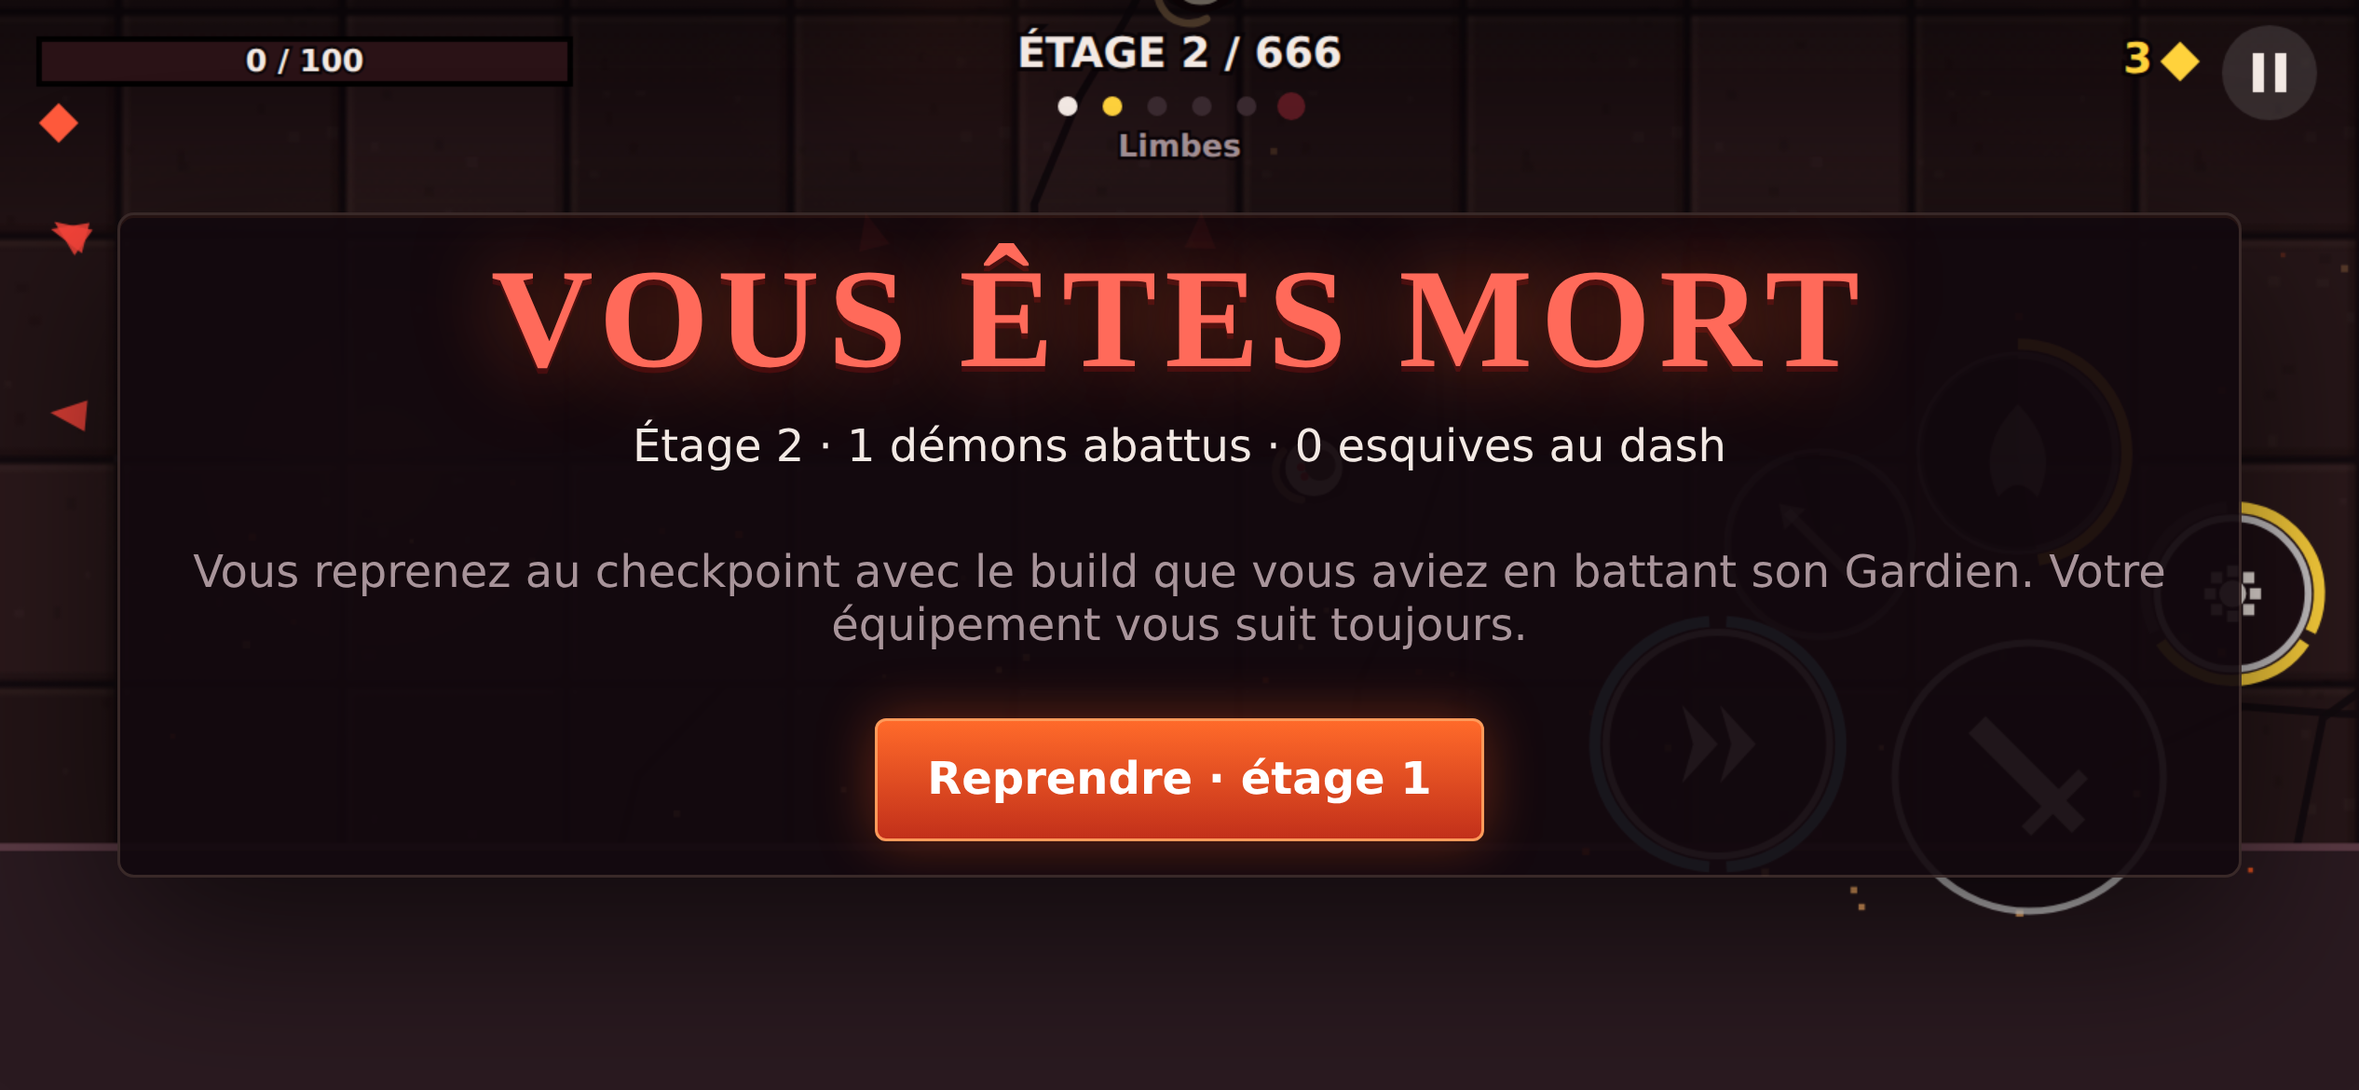
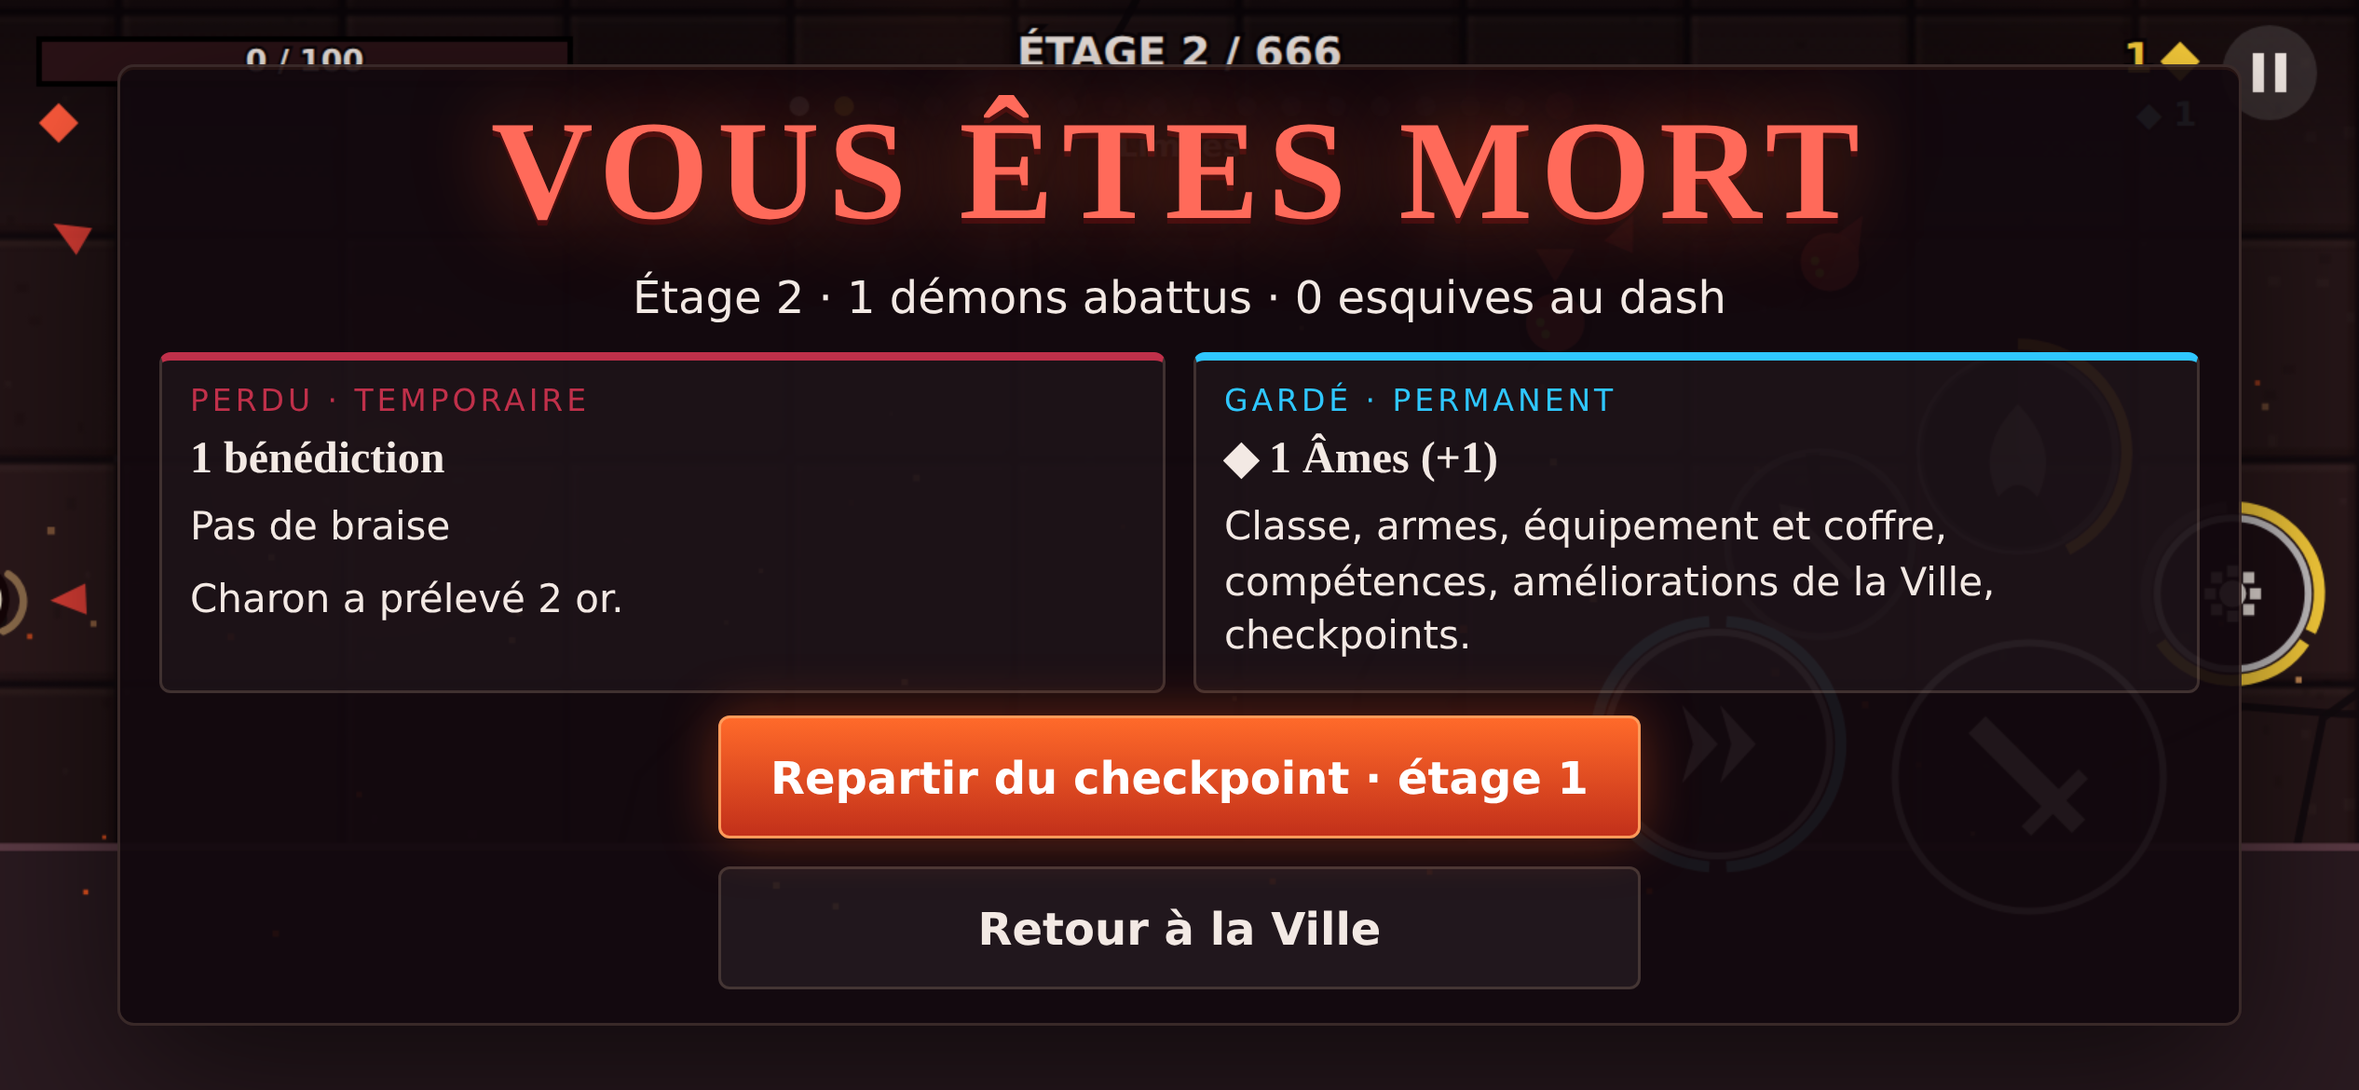
Dungeon 666 V2 : fusion du lot boucle/labo/oracles, docs de clôture (README, décisions)
- Lot boucle : 31 tests de boucle (profil, mort, checkpoints, TP, Ville, labo D5/D8/D9,
  entraînement), e2e sur le nouveau flux (39 vérifications), rapport reports/lab.md,
  returnToTown réservé à la mort ou au portail, migration des checkpoints
- README : boucle V2, permanent/temporaire, contenu, reprise sous Godot
- DECISIONS : D3/D4 tranchées par Pierre, D5/D8/D9 testables au labo, D10-D12
- Suite : 239/239 ; solvabilité PASS ; e2e 39/39

Claude-Session: https://claude.ai/code/session_01AJGYqWYQ6ueyxxmqgtgQMu

diff --git a/GAMES/dungeon_666/dist/dungeon_666.html b/GAMES/dungeon_666/dist/dungeon_666.html
@@ -6501,6 +6501,7 @@ __mod["src/sim/profile.mjs"] = (() => {
 //
 // Fonctions PURES sur des objets JSON (aucun DOM) : la Ville (src/ui/town.mjs) appelle ces
 // opérations, main.mjs sauvegarde le résultat. Chaque opération rend { ok, reason? }.
+const { floorInfo } = __mod["src/sim/floors.mjs"];
 
 const PROFILE_SCHEMA = 3;
 const STASH_MAX = 24;
@@ -6578,7 +6579,9 @@ function sanitizeProfile(raw, tuning) {
   if (!isObj(raw)) return def;
   const total = tuning.floors.total;
   const out = def;
-  const cps = Array.isArray(raw.checkpoints) ? raw.checkpoints.filter((f) => intIn(f, 1, total)) : [];
+  // Un checkpoint est le 1er étage d'une section (l'étage qui suit un Gardien). Ceux d'avant la
+  // V2 (Gardien tous les 6 étages : 7, 13…) ne sont plus des points de reprise et sont écartés.
+  const cps = Array.isArray(raw.checkpoints) ? raw.checkpoints.filter((f) => intIn(f, 1, total) && floorInfo(tuning, f).indexInSection === 1) : [];
   out.checkpoints = [...new Set([1, ...cps])].sort((a, b) => a - b);
   out.bestFloor = intIn(raw.bestFloor, 1, total) ? raw.bestFloor : 1;
   out.souls = Number.isFinite(raw.souls) && raw.souls >= 0 ? Math.floor(raw.souls) : 0;
@@ -6592,6 +6595,7 @@ function sanitizeProfile(raw, tuning) {
   };
   for (const k of Object.keys(known)) out.unlocked[k] = [...new Set([...def.unlocked[k], ...idList(u[k], known[k])])];
   for (const c of out.unlocked.classes) grantClassStarters(out, tuning, c);
+  for (const id of out.unlocked.classes) grantStarterKit(out, tuning, id);
   if (isObj(raw.upgrades)) {
     for (const [id, lv] of Object.entries(raw.upgrades)) {
       const up = tuning.town?.upgrades?.[id];
@@ -6677,11 +6681,25 @@ function unlock(profile, tuning, kind, id) {
   profile.souls -= cost;
   profile.unlocked[kind].push(id);
   if (kind === 'classes') grantClassStarters(profile, tuning, id);
+  if (kind === 'classes') grantStarterKit(profile, tuning, id);
   if (kind === 'weapons') {
     // Une arme débloquée est forgée aussitôt en exemplaire commun, rangé au coffre.
     stashPush(profile, starterWeapon(tuning, id));
   }
   return { ok: true };
+}
+
+/**
+ * Kit de départ d'une classe (1re arme, 1re compétence, 1er gadget) : possédé dès que la classe
+ * l'est. Sans cela, la classe choisie équipait une compétence encore « à débloquer » au Grimoire.
+ */
+function grantStarterKit(profile, tuning, classId) {
+  const c = tuning.classes[classId];
+  if (!c) return;
+  for (const [kind, list] of [['weapons', c.weapons], ['skills', c.skills], ['gadgets', c.gadgets]]) {
+    const id = list?.[0];
+    if (id && !profile.unlocked[kind].includes(id)) profile.unlocked[kind].push(id);
+  }
 }
 
 /** Exemplaire commun d'un type d'arme (sans affixe), pour la Forge et le départ. */
@@ -7477,7 +7495,13 @@ function rollShop(game) {
 
 function applyCommand(game, cmd) {
   if (cmd.type === 'respawn') return respawn(game, cmd.floor);
-  if (cmd.type === 'returnToTown') return returnToTown(game);
+  if (cmd.type === 'returnToTown') {
+    // Depuis l'écran de mort (Charon a déjà pris sa part), ou au portail ouvert après un Gardien.
+    // Jamais en plein combat : quitter un run en cours, c'est « abandon » (taxé comme une mort).
+    const portal = game.mode === 'play' && game.room.doors.some((d) => d.reward === 'town' && d.open);
+    if (game.mode !== 'dead' && !portal) return false;
+    return returnToTown(game);
+  }
   if (cmd.type === 'abandon') {
     // Abandonner = mourir : Charon prend sa part, le temporaire est perdu, retour en Ville.
     if (game.mode !== 'play' && game.mode !== 'choice') return false;
@@ -7751,6 +7775,7 @@ __mod["src/sim/lab.mjs"] = (() => {
 const LAB_AXES = {
   dashStrike: {
     label: 'D5 · Frappe de dash',
+    reference: 'fin', // = valeurs d'origine de config.mjs
     options: {
       fin: { label: 'Fin du dash', text: 'Attaquer dans le dernier 45 % du dash ou juste après.', set: { 'dash.strikeCancelFrom': 0.45, 'dash.strikeWindow': 0.3 } },
       toutDash: { label: 'Tout le dash', text: 'Attaquer à n\'importe quel moment du dash le coupe en frappe.', set: { 'dash.strikeCancelFrom': 1, 'dash.strikeWindow': 0.3 } },
@@ -7759,6 +7784,7 @@ const LAB_AXES = {
   },
   hitstop: {
     label: 'D8 · Gel d\'impact',
+    reference: 'global',
     options: {
       global: { label: 'Global', text: 'Toute la scène se fige à l\'impact.', set: { hitstopMode: 'global' } },
       local: { label: 'Local', text: 'Seuls le héros et ses cibles se figent ; le reste continue.', set: { hitstopMode: 'local' } },
@@ -7766,6 +7792,7 @@ const LAB_AXES = {
   },
   comboMobility: {
     label: 'D9 · Mobilité du combo',
+    reference: 'mobile',
     options: {
       ancre: { label: 'Ancré', text: '20 % de vitesse, annulations tardives.', set: { 'player.attackMoveMult': 0.2, 'player.cancelMult': 1.6 } },
       mobile: { label: 'Mobile', text: '50 % de vitesse, annulations de référence.', set: { 'player.attackMoveMult': 0.5, 'player.cancelMult': 1 } },
@@ -7782,11 +7809,15 @@ function setPath(obj, path, value) {
   o[last] = value;
 }
 
-/** Applique les variantes choisies (tuning.lab) au tuning de la partie. Idempotent. */
+/**
+ * Applique les variantes choisies (tuning.lab) au tuning de la partie. Idempotent. Un axe absent
+ * ou une variante inconnue retombe sur la RÉFÉRENCE de l'axe (jamais sur la 1re option listée :
+ * pour D9, ce serait « Ancré », pas les valeurs d'origine).
+ */
 function applyLab(tuning) {
   for (const [axis, def] of Object.entries(LAB_AXES)) {
     const choice = tuning.lab?.[axis];
-    const opt = def.options[choice] ?? def.options[Object.keys(def.options)[0]];
+    const opt = def.options[choice] ?? def.options[def.reference];
     for (const [path, v] of Object.entries(opt.set)) setPath(tuning, path, v);
   }
   return tuning;
@@ -7795,13 +7826,17 @@ function applyLab(tuning) {
 /** Change une variante en cours de partie (pause → Labo) ; rend false si inconnue. */
 function setLab(tuning, axis, choice) {
   if (!LAB_AXES[axis]?.options[choice]) return false;
+  if (!tuning.lab || typeof tuning.lab !== 'object') tuning.lab = {};
   tuning.lab[axis] = choice;
   applyLab(tuning);
   return true;
 }
 
 function labSummary(tuning) {
-  return Object.entries(LAB_AXES).map(([axis, def]) => ({ axis, label: def.label, choice: tuning.lab[axis], choiceLabel: def.options[tuning.lab[axis]]?.label ?? '?' }));
+  return Object.entries(LAB_AXES).map(([axis, def]) => {
+    const choice = def.options[tuning.lab?.[axis]] ? tuning.lab[axis] : def.reference;
+    return { axis, label: def.label, choice, choiceLabel: def.options[choice].label };
+  });
 }
 
 return { LAB_AXES, applyLab, setLab, labSummary };
@@ -14820,6 +14855,14 @@ window.__d666 = {
     if (!g) return;
     g.player.x = x;
     g.player.y = y;
+  },
+  // Âmes offertes (e2e : tester un achat de la Ville sans jouer vingt minutes). Profil sauvegardé.
+  giveSouls(n) {
+    const amount = Math.max(0, Math.floor(Number(n) || 0));
+    app.profile.souls += amount;
+    if (app.game) app.game.meta.souls += amount;
+    save(META_KEY, app.profile);
+    app.townRev++;
   },
 };
 window.__game_debug = {

diff --git a/GAMES/dungeon_666/01_DESIGN/DECISIONS.md b/GAMES/dungeon_666/01_DESIGN/DECISIONS.md
@@ -1,4 +1,4 @@
-# Dungeon 666 — décisions ouvertes pour Pierre
+# Dungeon 666 — décisions pour Pierre (état V2, 2026-10-01)
 
 `statut_artefact : PROPOSED` · chaque ligne indique ce que fait le prototype aujourd'hui. Les
 défauts sont **réversibles** : ce sont des valeurs de `src/sim/config.mjs`, ou de petites règles isolées.
@@ -7,13 +7,16 @@ défauts sont **réversibles** : ce sont des valeurs de `src/sim/config.mjs`, ou
 |---|---|---|---|---|
 | D1 | **Profil de feel** | « Nerveux » : course 300 u/s, accélération en 5 images, arrêt en 3. Dash de 170 u en 0,15 s, invulnérable 0,2 s, 2 charges rechargées en 0,9 s. | « Posé » : course 260, dash plus long (0,25 s), recharge 1,5 s, télégraphes ennemis ×1,25. | Pause → **Réglages du feel** : tout se règle en jouant. |
 | D2 | **Visée** | Visée assistée par défaut (cible proche, avec ligne de vue, dans le sens du déplacement, cible « collante » 0,4 s). Glisser = visée manuelle. | Visée manuelle obligatoire (plus d'adresse, plus de friction au pouce). | Jouer deux salles en tapant, puis deux en glissant. |
-| D3 | **Mort** | On reprend au checkpoint choisi avec le **build figé quand on a battu son Gardien** (bénédictions + or, l'or plafonné à celui qu'on avait en mourant). L'équipement n'est jamais perdu. On ne perd que la section en cours. Mort au Gardien : « Réessayer le Gardien » relance le combat avec le build d'entrée dans sa salle. | (a) Perdre toutes les bénédictions à chaque mort (plus Hades, plus punitif). (b) Tout garder, ne perdre que la position. | Mourir deux fois au Gardien et juger l'envie de relancer. |
-| D4 | **Structure des 666** | Sections de 6 (Gardien au 6ᵉ = checkpoint), 9 Cercles de 72, finale de 18. Un seul modèle de Gardien dans le prototype. | Un « Seigneur » plus coriace tous les 18 étages et à la fin de chaque Cercle (22 scripts de boss en tout, recommandation des concepteurs). | Après validation du feel. |
-| D5 | **Frappe de dash** | Une attaque en fin de dash (dernier 45 %) coupe la ruée et frappe tout de suite (×1,8 dégâts, élan). | Frappe seulement après la fin complète du dash. | Ressenti : « je frappe quand je veux » ou « ça me coupe mon esquive ». |
+| D3 | **Mort** | **TRANCHÉE par Pierre (V2)** : retour au dernier checkpoint ; bénédictions remises à zéro ; tout le permanent (classe, armes, équipement, compétences, déblocages, Âmes) gardé. Reste ouvert : la part d'or prélevée par Charon (50 %, Sanctuaire « Avidité » −15 %/niv.). | — | Jouer une mort après un Gardien. |
+| D4 | **Structure des 666** | **TRANCHÉE par Pierre (V2)** : Gardien tous les 18 étages (37 sections), étages composés. Reste ouvert : nombre de modèles de Gardien (4 en rotation aujourd'hui), longueur réelle d'une section pour un humain (~11 min estimées par bot). | Gardiens spéciaux de fin de Cercle. | Après plusieurs sections jouées. |
+| D5 | **Frappe de dash** | **TESTABLE** : Labo du feel → fin du dash (réf.) / tout le dash / après le dash. Mesure bots : `reports/lab.md`. | — | En main, Labo du feel. |
 | D6 | **Moteur cible** | Prototype web (canvas 2D) : testable sur n'importe quel téléphone en un lien, simulation isolée et portable. | Port Godot 4 (export Android/iOS natif) une fois le feel validé. | Après le verdict de feel. |
 | D7 | **Place dans le studio** | Hors du rail (`RAIL_REGISTER.md`) et hors de la Forge (`forge/oracles.json` est une surface protégée) : oracles locaux (`node run-oracle.mjs`). | L'inscrire au portefeuille, ou en faire un brief Forge (`EVIDENCE/briefs/dungeon_666/`). | Décision de portefeuille. |
-| D8 | **Gel d'impact** | Gel global (coups 0,04 s, 3ᵉ coup 0,085 s), plafonné par une réserve de 0,22 s qui se recharge. Le dash l'interrompt. | Gel local (attaquant + cible seulement), recommandé par le spécialiste juice : plus fluide en mêlée, plus complexe. | Mêlée de 6 ennemis : est-ce que ça « colle » ? |
-| D9 | **Mobilité pendant le combo** | On garde 50 % de la vitesse en attaquant (`player.attackMoveMult`). Le coup suivant part après 30 % de la récupération (60 % après le 3ᵉ coup, `comboCancelFrom`) ; le dash, lui, annule tout. | Plus lent (40 %) : le dash pèse encore plus, le combo colle davantage au sol. À 20 % (valeur initiale), le héros était plus lent qu'un diablotin. | Arène d'essai, combo maintenu : le dash reste-t-il le réflexe ? |
+| D8 | **Gel d'impact** | **TESTABLE** : Labo du feel → global (réf.) / local (seuls le héros et ses cibles se figent). Mesure bots : `reports/lab.md`. | — | Mêlée de 6 ennemis, en main. |
+| D9 | **Mobilité pendant le combo** | **TESTABLE** : Labo du feel → ancré (20 %) / mobile (50 %, réf.) / fluide (75 %), avec annulations allongées ou abrégées. Mesure bots : `reports/lab.md`. | — | Arène d'essai, combo maintenu. |
+| D10 | **Économie permanente** | Âmes : 1 par ennemi, 6 par élite, 60 + 15/section par Gardien ; classes 120, armes 40-60, compétences/gadgets 35-45 ; Sanctuaire 6 améliorations. | Coûts plus bas pour tester vite ; or comme seule monnaie. | Une soirée de jeu. |
+| D11 | **Équilibrage des classes** | Bourreau (Hache/Maillet) : la relecture a relevé un étourdissement en boucle en maintenant l'attaque ; Chasseresse : le dash devient facultatif pour le bot. **Non corrigé** (correction interrompue à la clôture). | Garde/stagger des ennemis, recul de la Chasseresse. | En main, puis bots. |
+| D12 | **Portage Godot** | Pierre (2026-10-01) : reprise sous Godot. La charte demandait un feel validé avant ; la sim web reste la spécification exécutable. | — | Pierre. |
 
 ## Ce qui est mesuré, et ce qui ne l'est pas
 

diff --git a/GAMES/dungeon_666/README.md b/GAMES/dungeon_666/README.md
@@ -45,16 +45,51 @@ Aucune dépendance : Node 18+ suffit pour le serveur et les tests. Playwright ne
 
 En jeu : **pause → Réglages du feel**. Ce panneau règle en direct la vitesse, le dash, les dégâts, le gel d'impact, la visée auto, les télégraphes… Le bouton « Copier les réglages » produit le JSON à rapporter.
 
-## Structure des 666 étages
+## Boucle V2 (demande de Pierre du 2026-10-01 : « GO prototype complet »)
 
-Section de 6 étages, le 6ᵉ est un **Gardien**. Le vaincre ouvre un **checkpoint** et fige le build
-du moment (bénédictions + or). À la mort, on repart du dernier checkpoint avec ce build figé et
-tout son **équipement** : on ne perd que la section en cours (l'or ne remonte jamais au-dessus de
-celui qu'on avait en mourant). Mort face au Gardien : **« Réessayer le Gardien »** relance
-directement le combat, avec le build qu'on avait en entrant dans sa salle.
-9 Cercles de 72 étages (Limbes → Trahison), puis la finale de 18 étages, « Le Trône ».
-Après chaque salle, deux portes annoncent la récompense de la suivante : bénédiction (les 7
-péchés capitaux), trésor, or, élite, soin. Le 5ᵉ étage propose un marchand ou un autel.
+**Ville → équipement/classe/armes/compétences → donjon → combats → bonus temporaires → Gardien → checkpoint/TP → nouvelle section.**
+
+- **Ville de Dité** (écran titre → « Entrer dans Dité ») :
+  - **Portail** : descendre depuis le dernier checkpoint ou se téléporter ; arène d'essai ; entraînement contre un Gardien déjà rencontré (`?lab=1` les montre tous).
+  - **Classe**, **Armurerie**, **Coffre**, **Grimoire** et **Sanctuaire** : améliorations payées en Âmes.
+  - **Labo du feel**.
+- **Permanent** (profil, `src/sim/profile.mjs`) :
+  - classe ;
+  - armes (objets typés) ;
+  - équipement et coffre (tout objet trouvé y est gardé) ;
+  - compétences et gadgets ;
+  - améliorations du Sanctuaire ;
+  - Âmes ;
+  - checkpoints.
+- **Temporaire** (`game.run`) : bénédictions des 7 péchés (bonus, pouvoirs, améliorations, synergies).
+- **Mort** : retour au **dernier checkpoint** (ou en Ville). Les bénédictions sont **remises à zéro**, tout le permanent est gardé, et Charon prélève une part de l'or. L'écran de mort montre ce qui est perdu et ce qui est gardé.
+- **666 étages** : sections de **18** étages, avec un **Gardien** au 18ᵉ, soit 37 sections. Le Gardien ouvre un checkpoint et un point de téléportation. À la sortie, deux portes : « section suivante » (le build est conservé) ou portail vers la Ville. Les étages sont **composés** à partir d'un plan de section (`src/sim/sections.mjs`), de dispositions, du bestiaire et des thèmes des 9 Cercles + finale.
+- **Classes** :
+  - **Revenant** : Lame, Dagues ;
+  - **Bourreau** : Hache, Maillet ;
+  - **Chasseresse** : Arc, Arbalète.
+
+  Il y a 5 compétences, 5 gadgets, et un Super par classe (`src/sim/kits.mjs`).
+- **Bestiaire** :
+  - diablotin (mêlée rapide) ;
+  - brute (mêlée lourde) ;
+  - archer (distance) ;
+  - bélier (chargeur) ;
+  - **Pyromancienne** (zone : flaques persistantes) ;
+  - **Nécromancien** (invocateur) ;
+  - possédé (kamikaze) ;
+  - 6 modificateurs d'élite.
+- **Gardiens** : **Charon**, **Cerbère**, **Minos**, **Éphialte le Colosse**. Leurs patterns sont distincts, en rotation sur les 37 sections.
+- **D5 / D8 / D9 restent ouvertes** : on les teste dans le **Labo du feel** (en Ville ou en pause).
+  - frappe de dash : fin / tout le dash / après le dash ;
+  - gel d'impact : global / **local** ;
+  - mobilité du combo : ancré / mobile / fluide.
+
+  La mesure par les bots est dans [`reports/lab.md`](reports/lab.md). Elle ne remplace pas le jugement en main.
+
+## Reprise sous Godot
+
+La simulation (`src/sim/`) est isolée, déterministe à 60 Hz, sans DOM, et tous ses nombres sont dans des fichiers de données (`config.mjs`, `kits.mjs`, `foe_data.mjs`, `boss_data.mjs`, `town_data.mjs`). C'est la **spécification exécutable** à porter. Les tests `tests/*.test.mjs` décrivent les règles une par une ; ce sont les oracles à reproduire côté Godot. Le feel reste à valider en main **avant** le portage (charte).
 
 ## Code
 
@@ -81,7 +116,7 @@ entièrement déterminée par sa graine et la suite de ses `InputFrame`.
 
 ```
 node run-oracle.mjs        # tout : règles, propriétés, audio, bundle, solvabilité, e2e, playtest
-node --test tests/*.test.mjs
+node --test tests/*.test.mjs   # 239 tests (dont tests/v2_*.test.mjs)
 node solvability.mjs       # un bot bat la section 1 ; mesure la « valeur du dash »
 node e2e.mjs               # Chromium réel : doigts tactiles (CDP), clavier, souris, file://
 node tools/playtest.mjs    # rapport de feel des bots → reports/playtest.md
